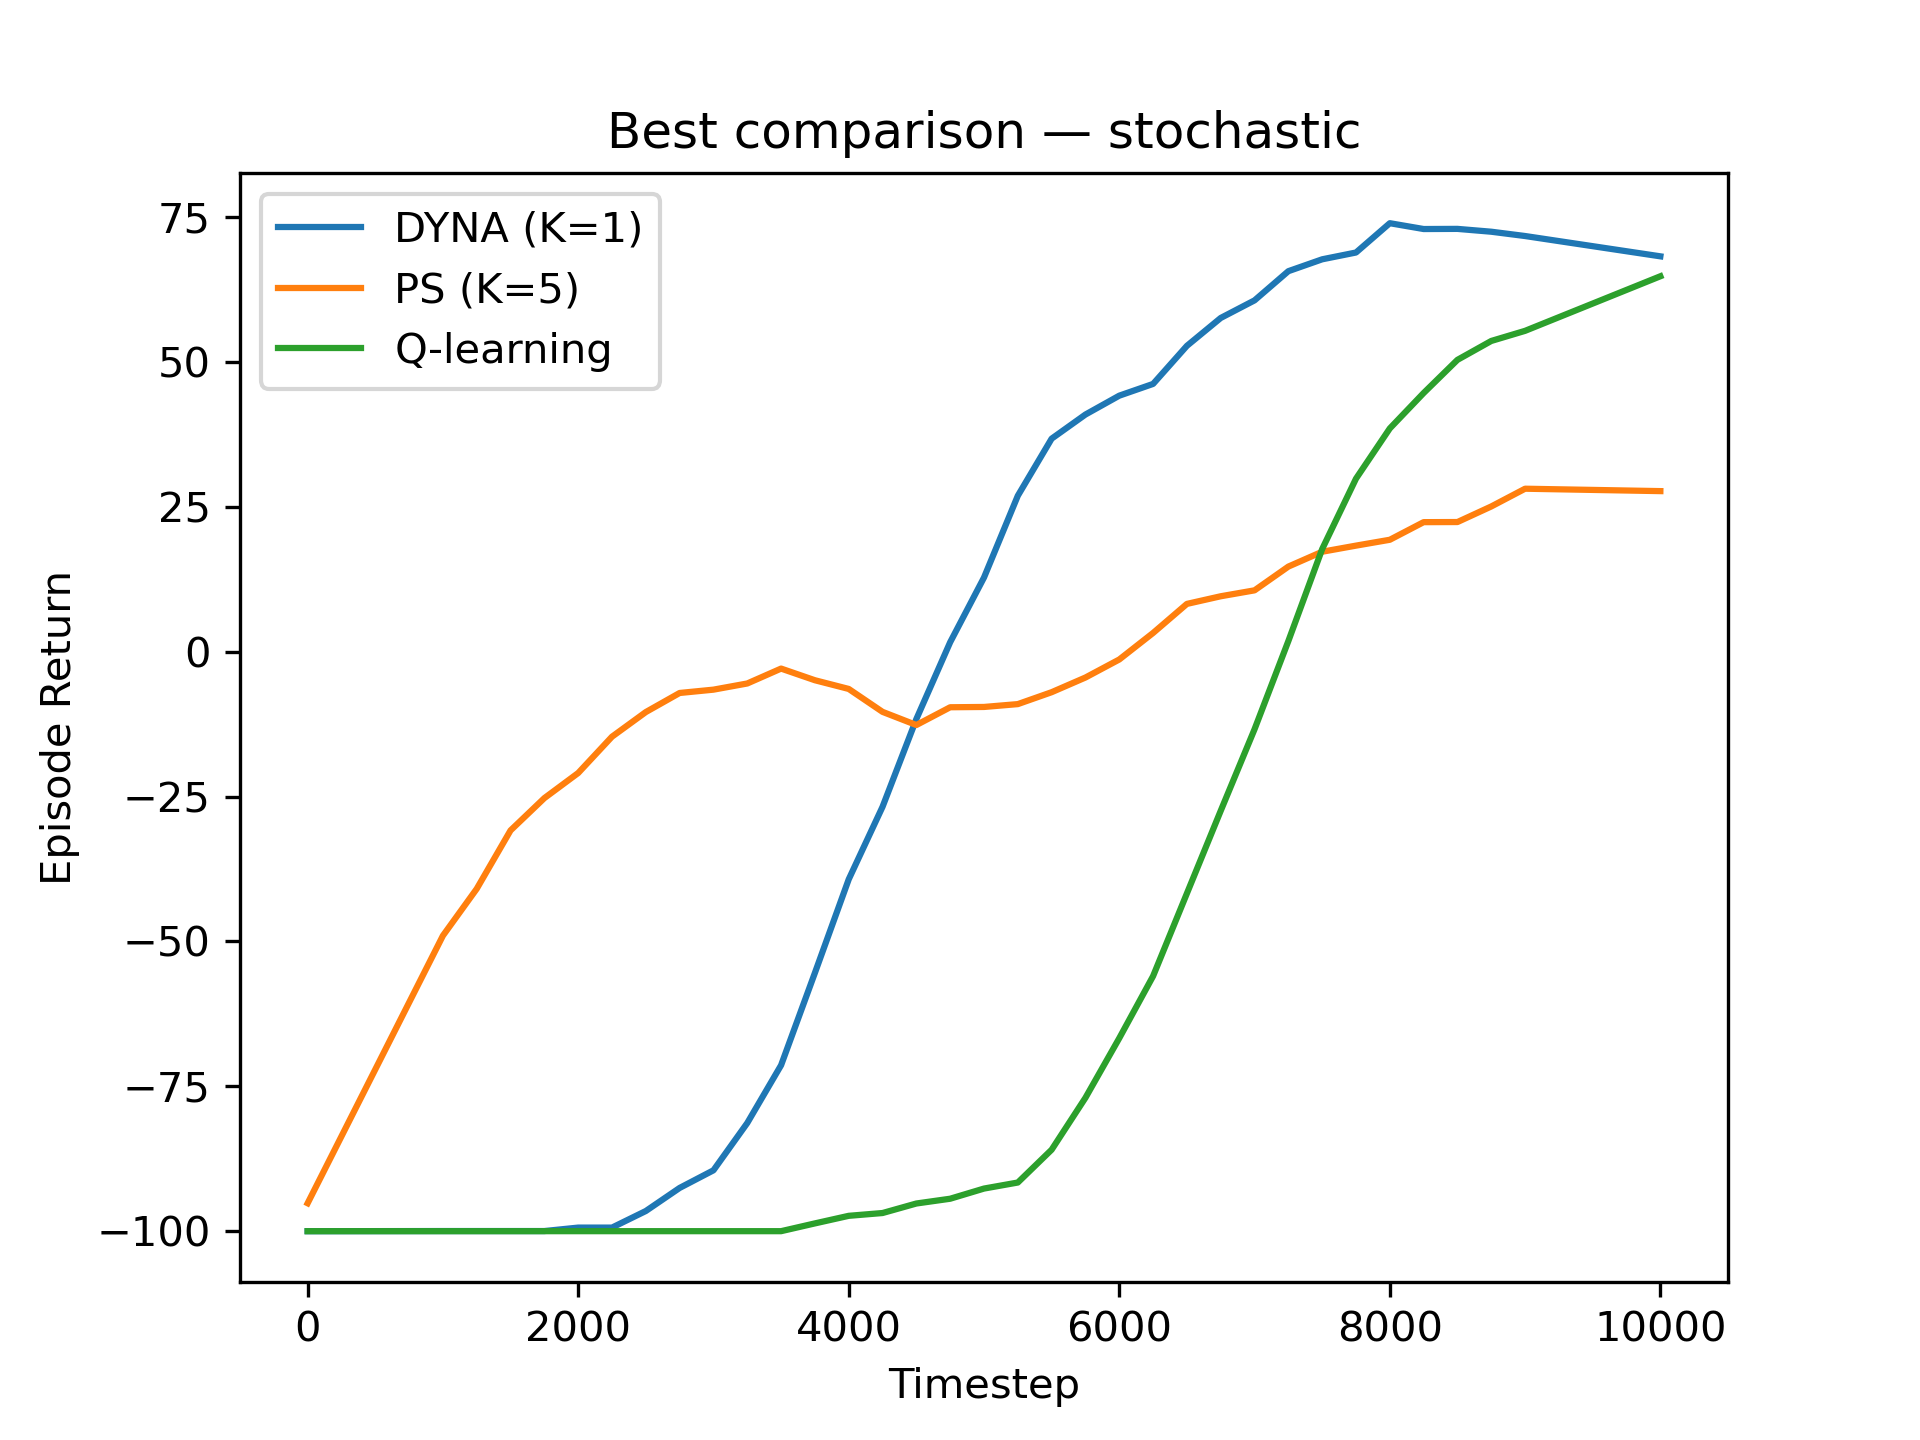
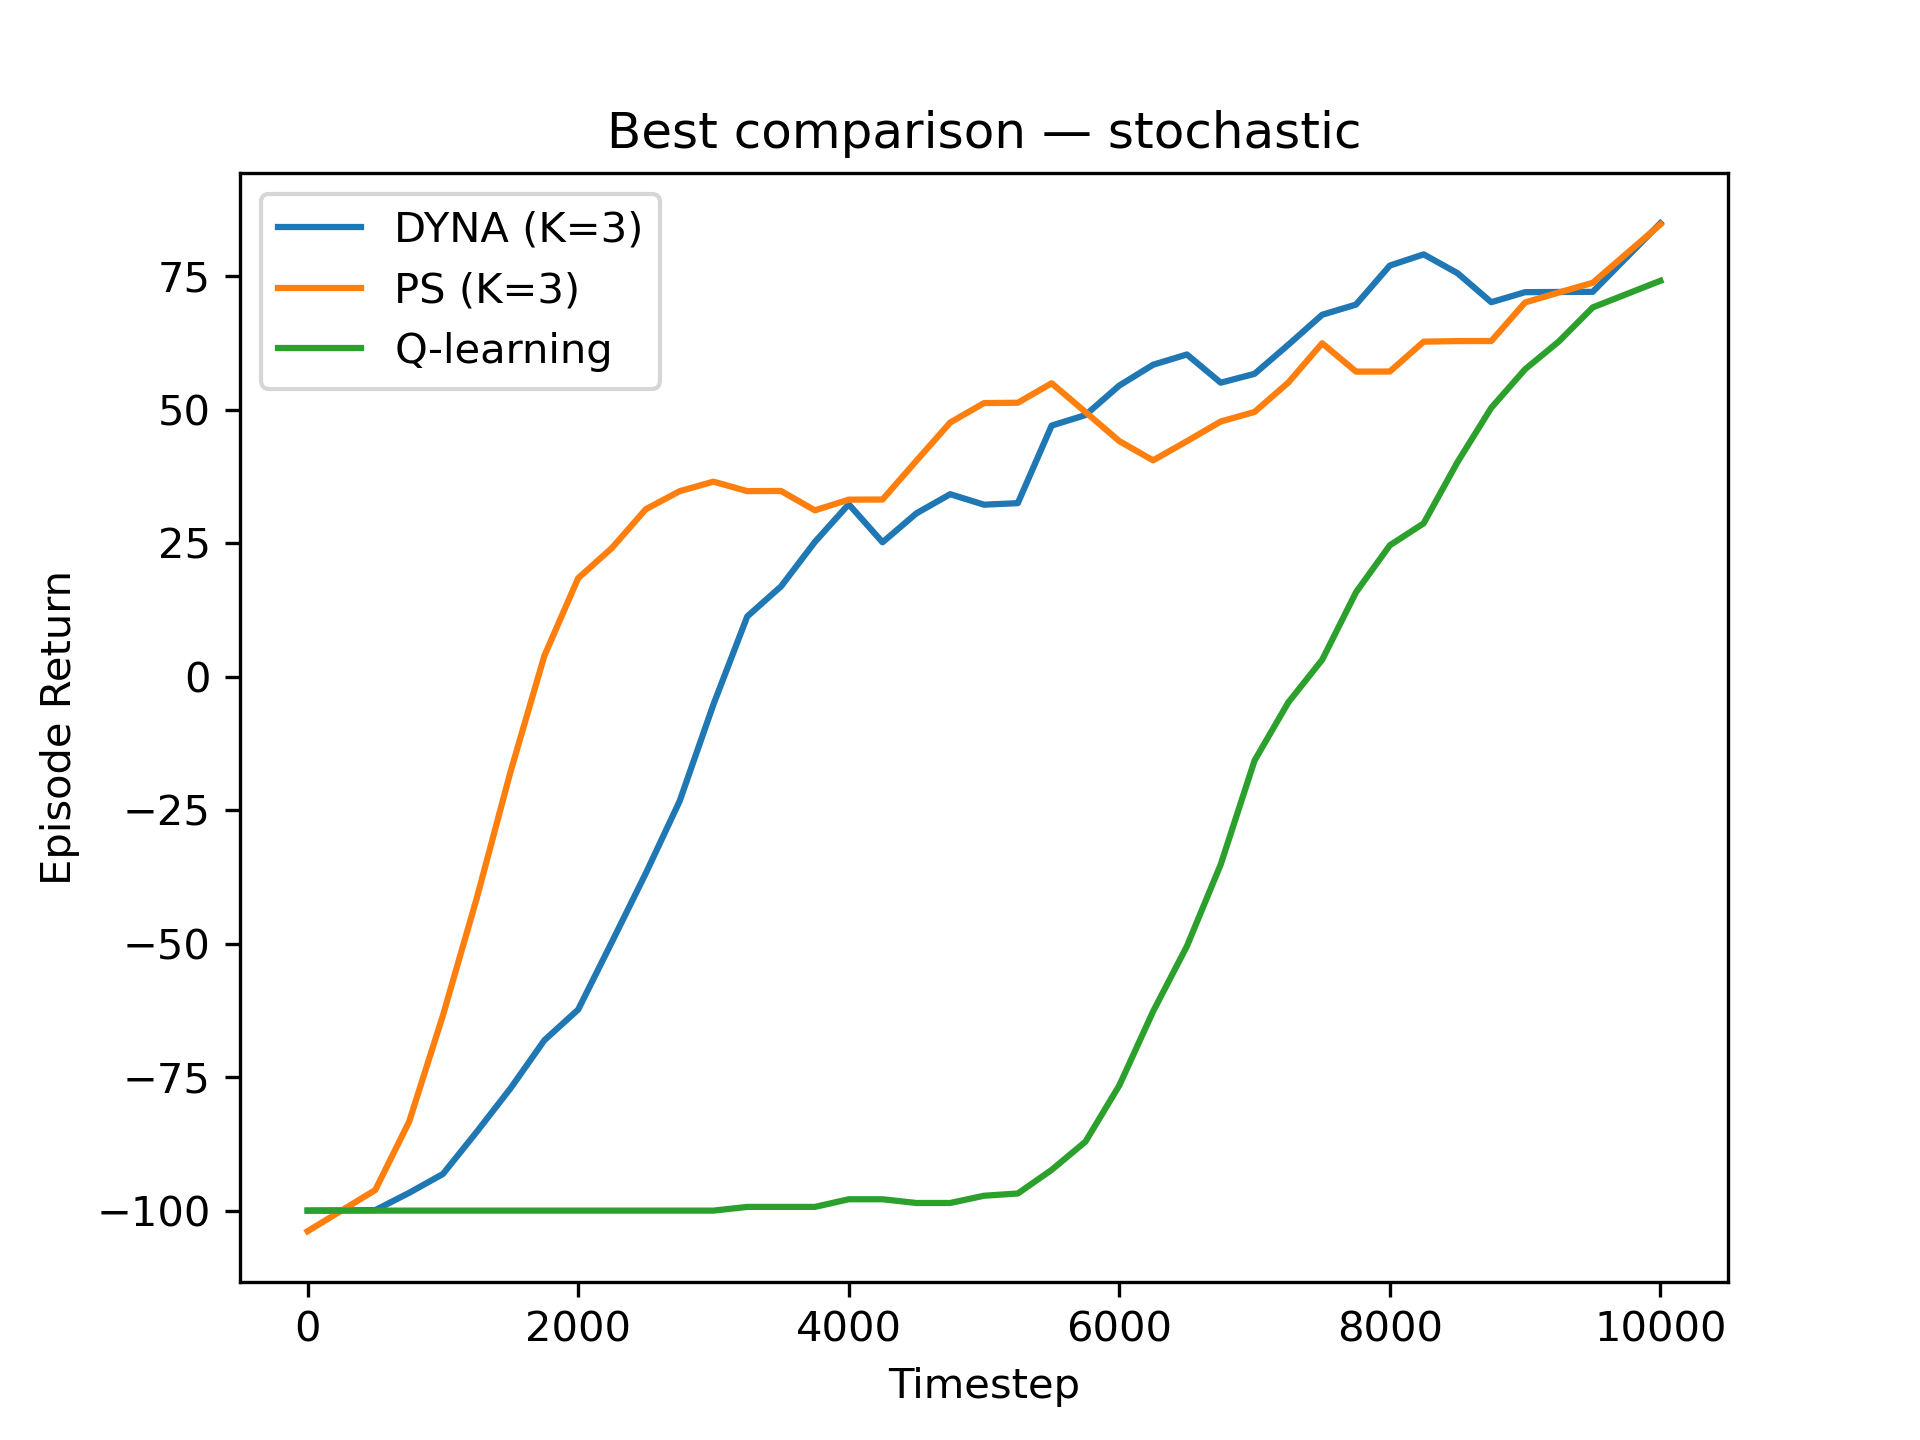
Add files via upload

diff --git a/MBRLAgents.py b/MBRLAgents.py
@@ -112,24 +112,26 @@ class PrioritizedSweepingAgent:
 
 
     def update(self, s, a, r, done, s_next, n_planning_updates):
+        # Direct TD update (Q-learning baseline)
+        target = r if done else r + self.gamma * self.Q_sa[s_next].max()
+        self.Q_sa[s, a] += self.alpha * (target - self.Q_sa[s, a])
+    
         # Model update
         self.n[s, a, s_next] += 1
         self.R_sum[s, a, s_next]   += r
         self.predecessors[s_next].add((s, a))
 
-        # Push current (s,a) onto queue with priority 
-        target = r if done else r + self.gamma * self.Q_sa[s_next].max()
+        # Queue update
         p = abs(target - self.Q_sa[s, a])
         if p > self.priority_cutoff:
-            self.queue.put((-p, (s, a)))  # negative because PriorityQueue is min-heap
+            self.queue.put((-p, (s, a)))
 
-        # Planning
+        # Planning phase
         for _ in range(n_planning_updates):
             if self.queue.empty():
                 break
             _, (s_p, a_p) = self.queue.get()
 
-            # Sample s′ from model of (s_p,a_p)
             counts = self.n[s_p, a_p]
             total = counts.sum()
             if total == 0:
@@ -138,12 +140,10 @@ class PrioritizedSweepingAgent:
             s_p_next = np.random.choice(self.n_states, p=probs)
             r_hat = self.R_sum[s_p, a_p, s_p_next] / max(1, counts[s_p_next])
 
-            # Q update
             target_p = r_hat + self.gamma * self.Q_sa[s_p_next].max()
             delta = target_p - self.Q_sa[s_p, a_p]
             self.Q_sa[s_p, a_p] += self.alpha * delta
 
-            # Propagate to predecessors of s_p
             for s_pre, a_pre in self.predecessors[s_p]:
                 counts_pa = self.n[s_pre, a_pre, s_p]
                 if counts_pa == 0:

diff --git a/MBRLExperiment.py b/MBRLExperiment.py
@@ -105,7 +105,7 @@ def experiment():
             best_final = -np.inf
 
             for n_plan in planning_list:
-                label = f"K={n_plan}" if n_plan > 0 else "Q-learning"
+                label = f"K={n_plan}" if n_plan > 0 else "K=0"
                 print(f"Running {alg_name} | {wind_case} | {label} …")
                 mean_curve, avg_rt = run_batch(AgentCls, wind_prop, n_plan)
                 curves[label] = mean_curve
@@ -132,7 +132,7 @@ def experiment():
             if (alg_name, wind_case) in best_curves:
                 label, curve = best_curves[(alg_name, wind_case)]
                 comp_curves[f"{alg_name.upper()} ({label})"] = curve
-                
+
         comp_curves["Q-learning"] = q_learning_curves[wind_case]
         fname = f"compare_{wind_case}.png"
         make_plot(f"Best comparison — {wind_case}", steps_axis, comp_curves, fname)
